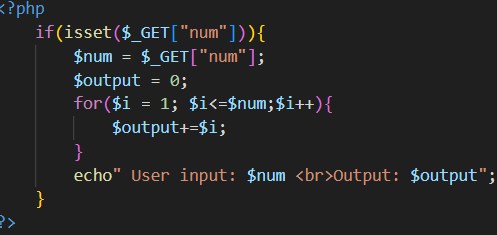
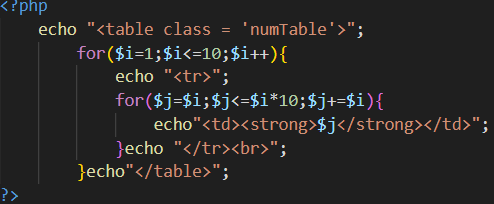
act5 update

diff --git a/act5.php b/act5.php
@@ -95,7 +95,13 @@
             <br><br>
             <div class = "box">
                 <h2><strong>Solution</strong></h2>
-                <p>if(isset($_GET["num"])){<br>&emsp;$num = $_GET["num"];<br>&emsp;$output = 0;<br>&emsp;for($i = 1; $i<=$num;$i++){<br>&emsp;&emsp;$output+=$i;<br>&emsp;}<br>&emsp;echo" User input: $num &#60br&#62 Output: $output";<br>}</p>
+                <p>echo "&#60table class = 'numTable'&#62";<br>
+                        &emsp;for($i=1;$i<=10;$i++){<br>
+                            &emsp;&emsp;echo "&#60tr&#62";<br>
+                            &emsp;&emsp;for($j=$i;$j<=$i*10;$j+=$i){<br>
+                                &emsp;&emsp;&emsp;echo"&#60td&#62&#60strong&#62$j&#60/strong&#62&#60/td&#62";<br>
+                            &emsp;&emsp;}echo "&#60/tr&#62&#60br&#62";<br>
+                            &emsp;}echo"&#60/table&#62";
                 <img src="assets/loop4.png" alt=""><br><br>
                 <?php
                     echo "<strong>Output:</strong>";
@@ -109,7 +115,6 @@
                 ?>
             </div>
             <br><br><br><br>
-
         </div>
     </div>
 </body>
